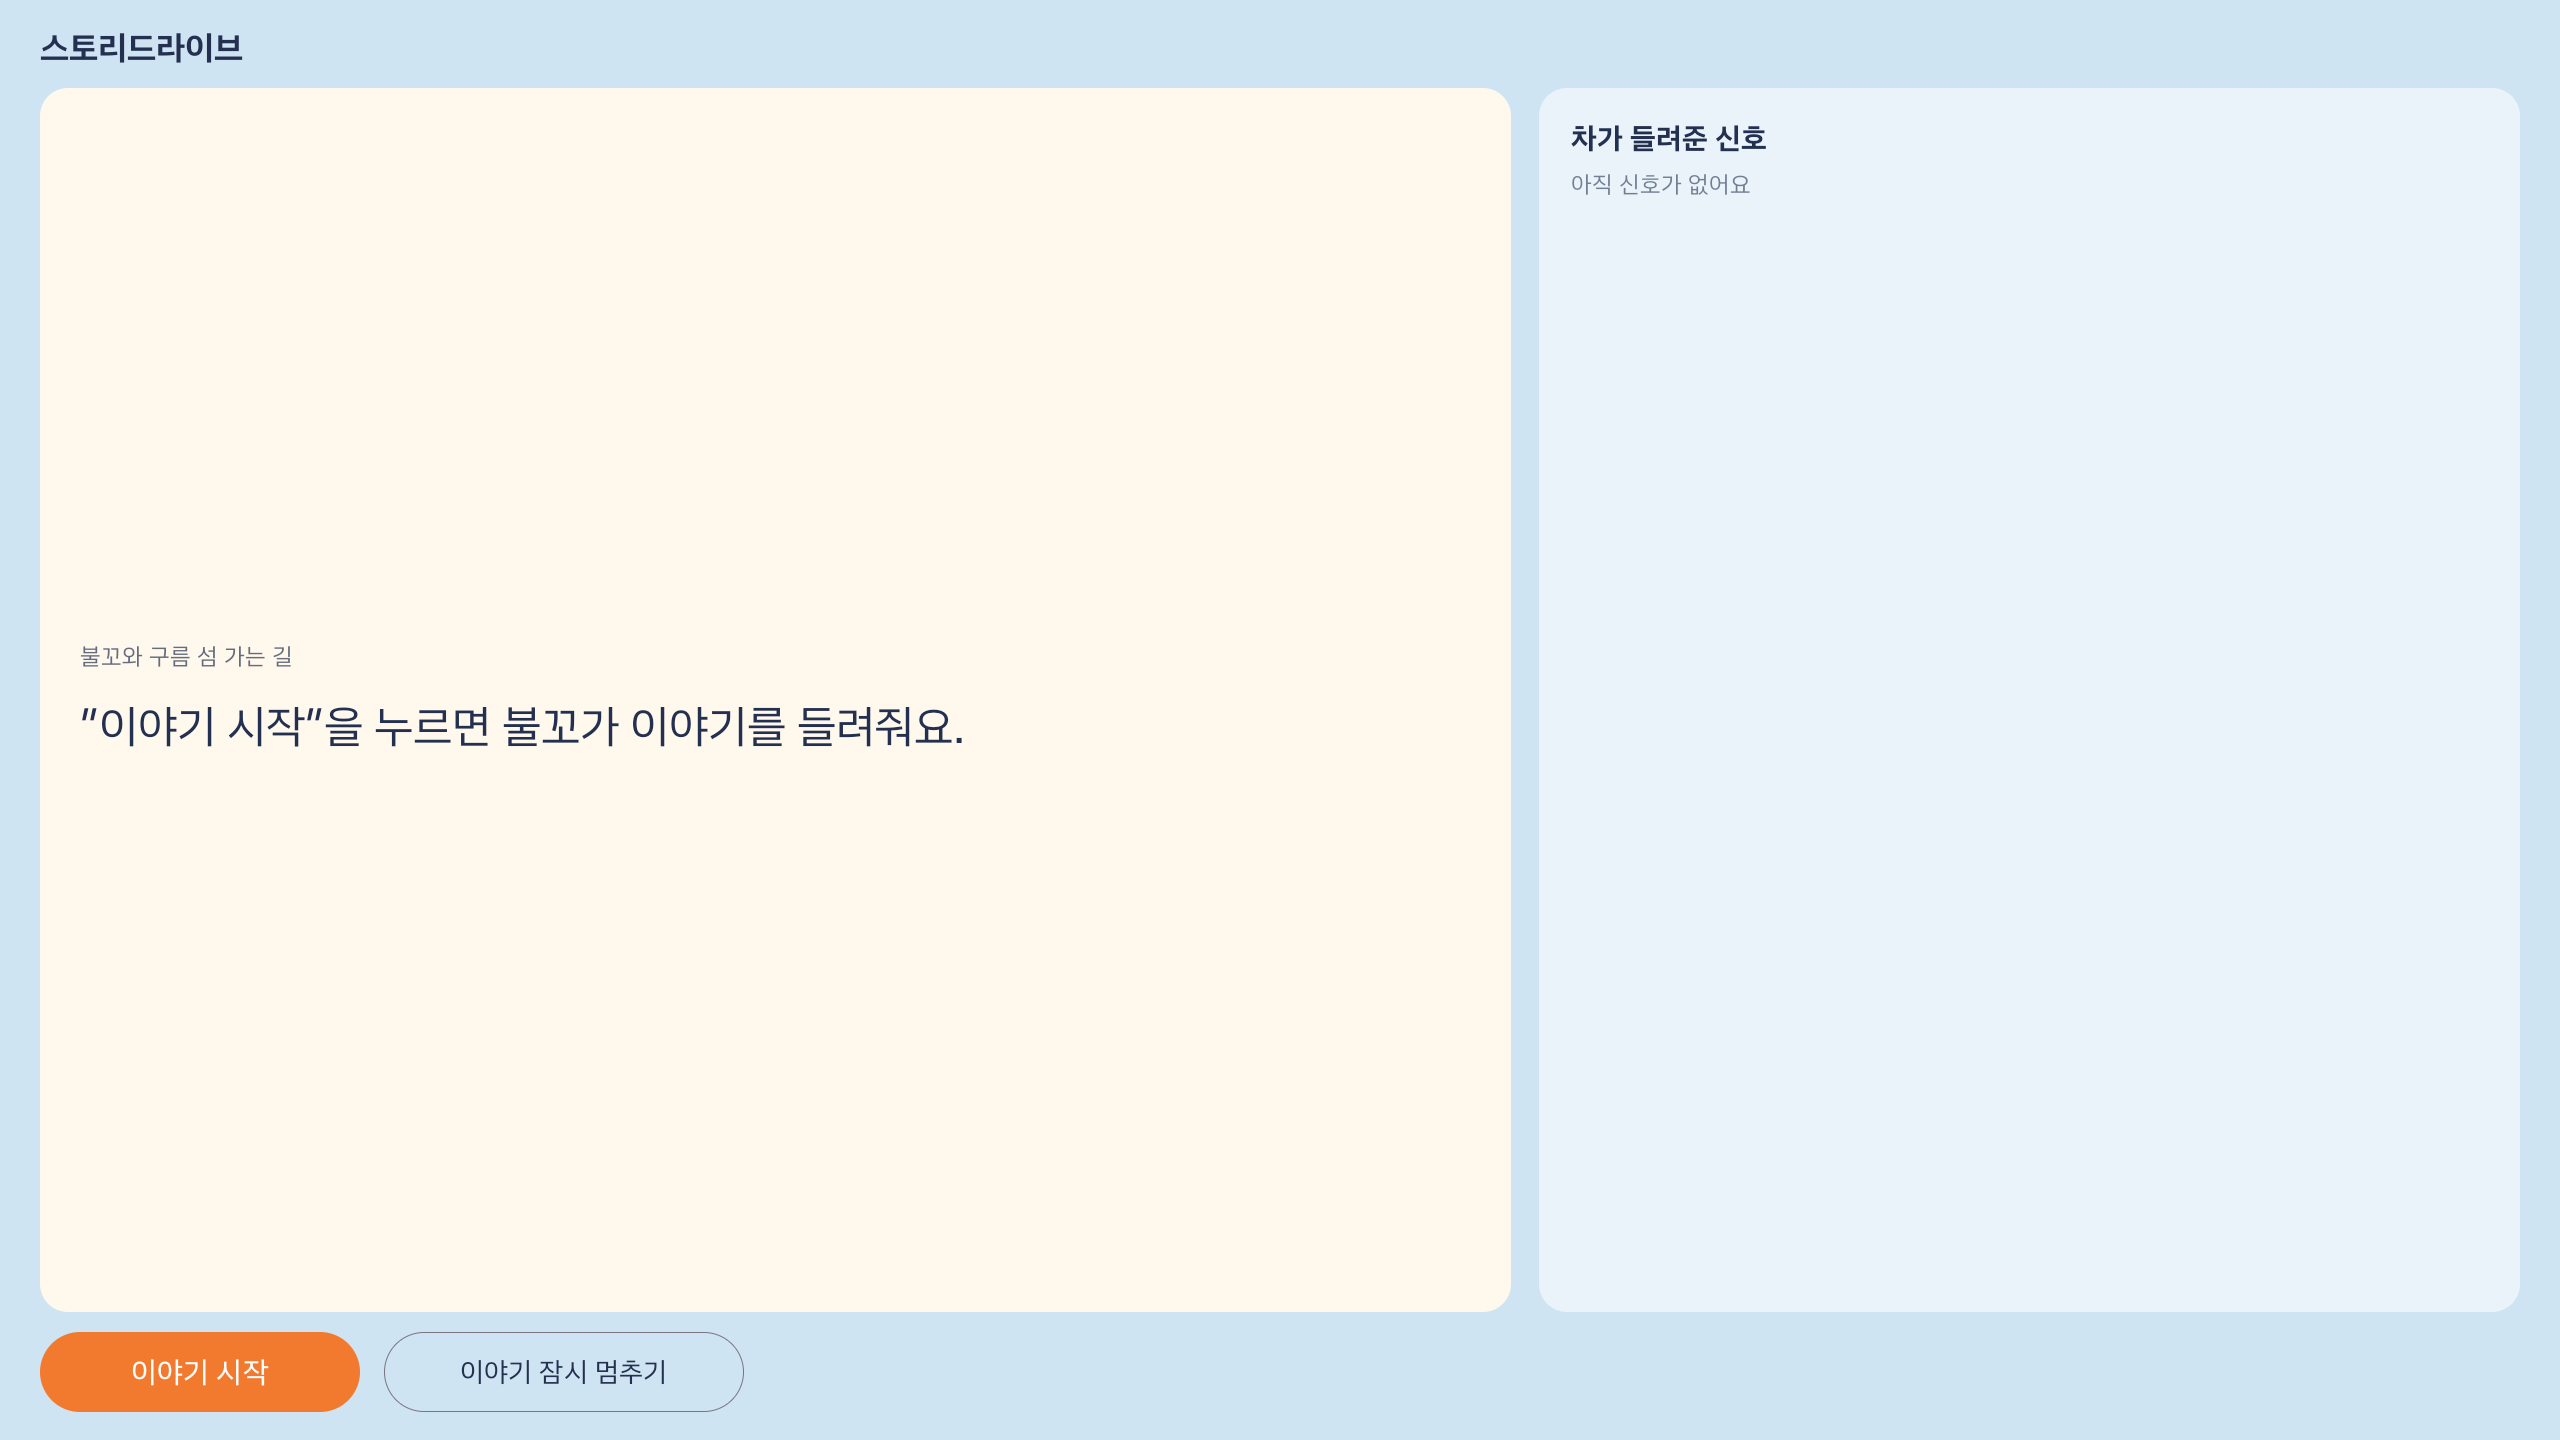
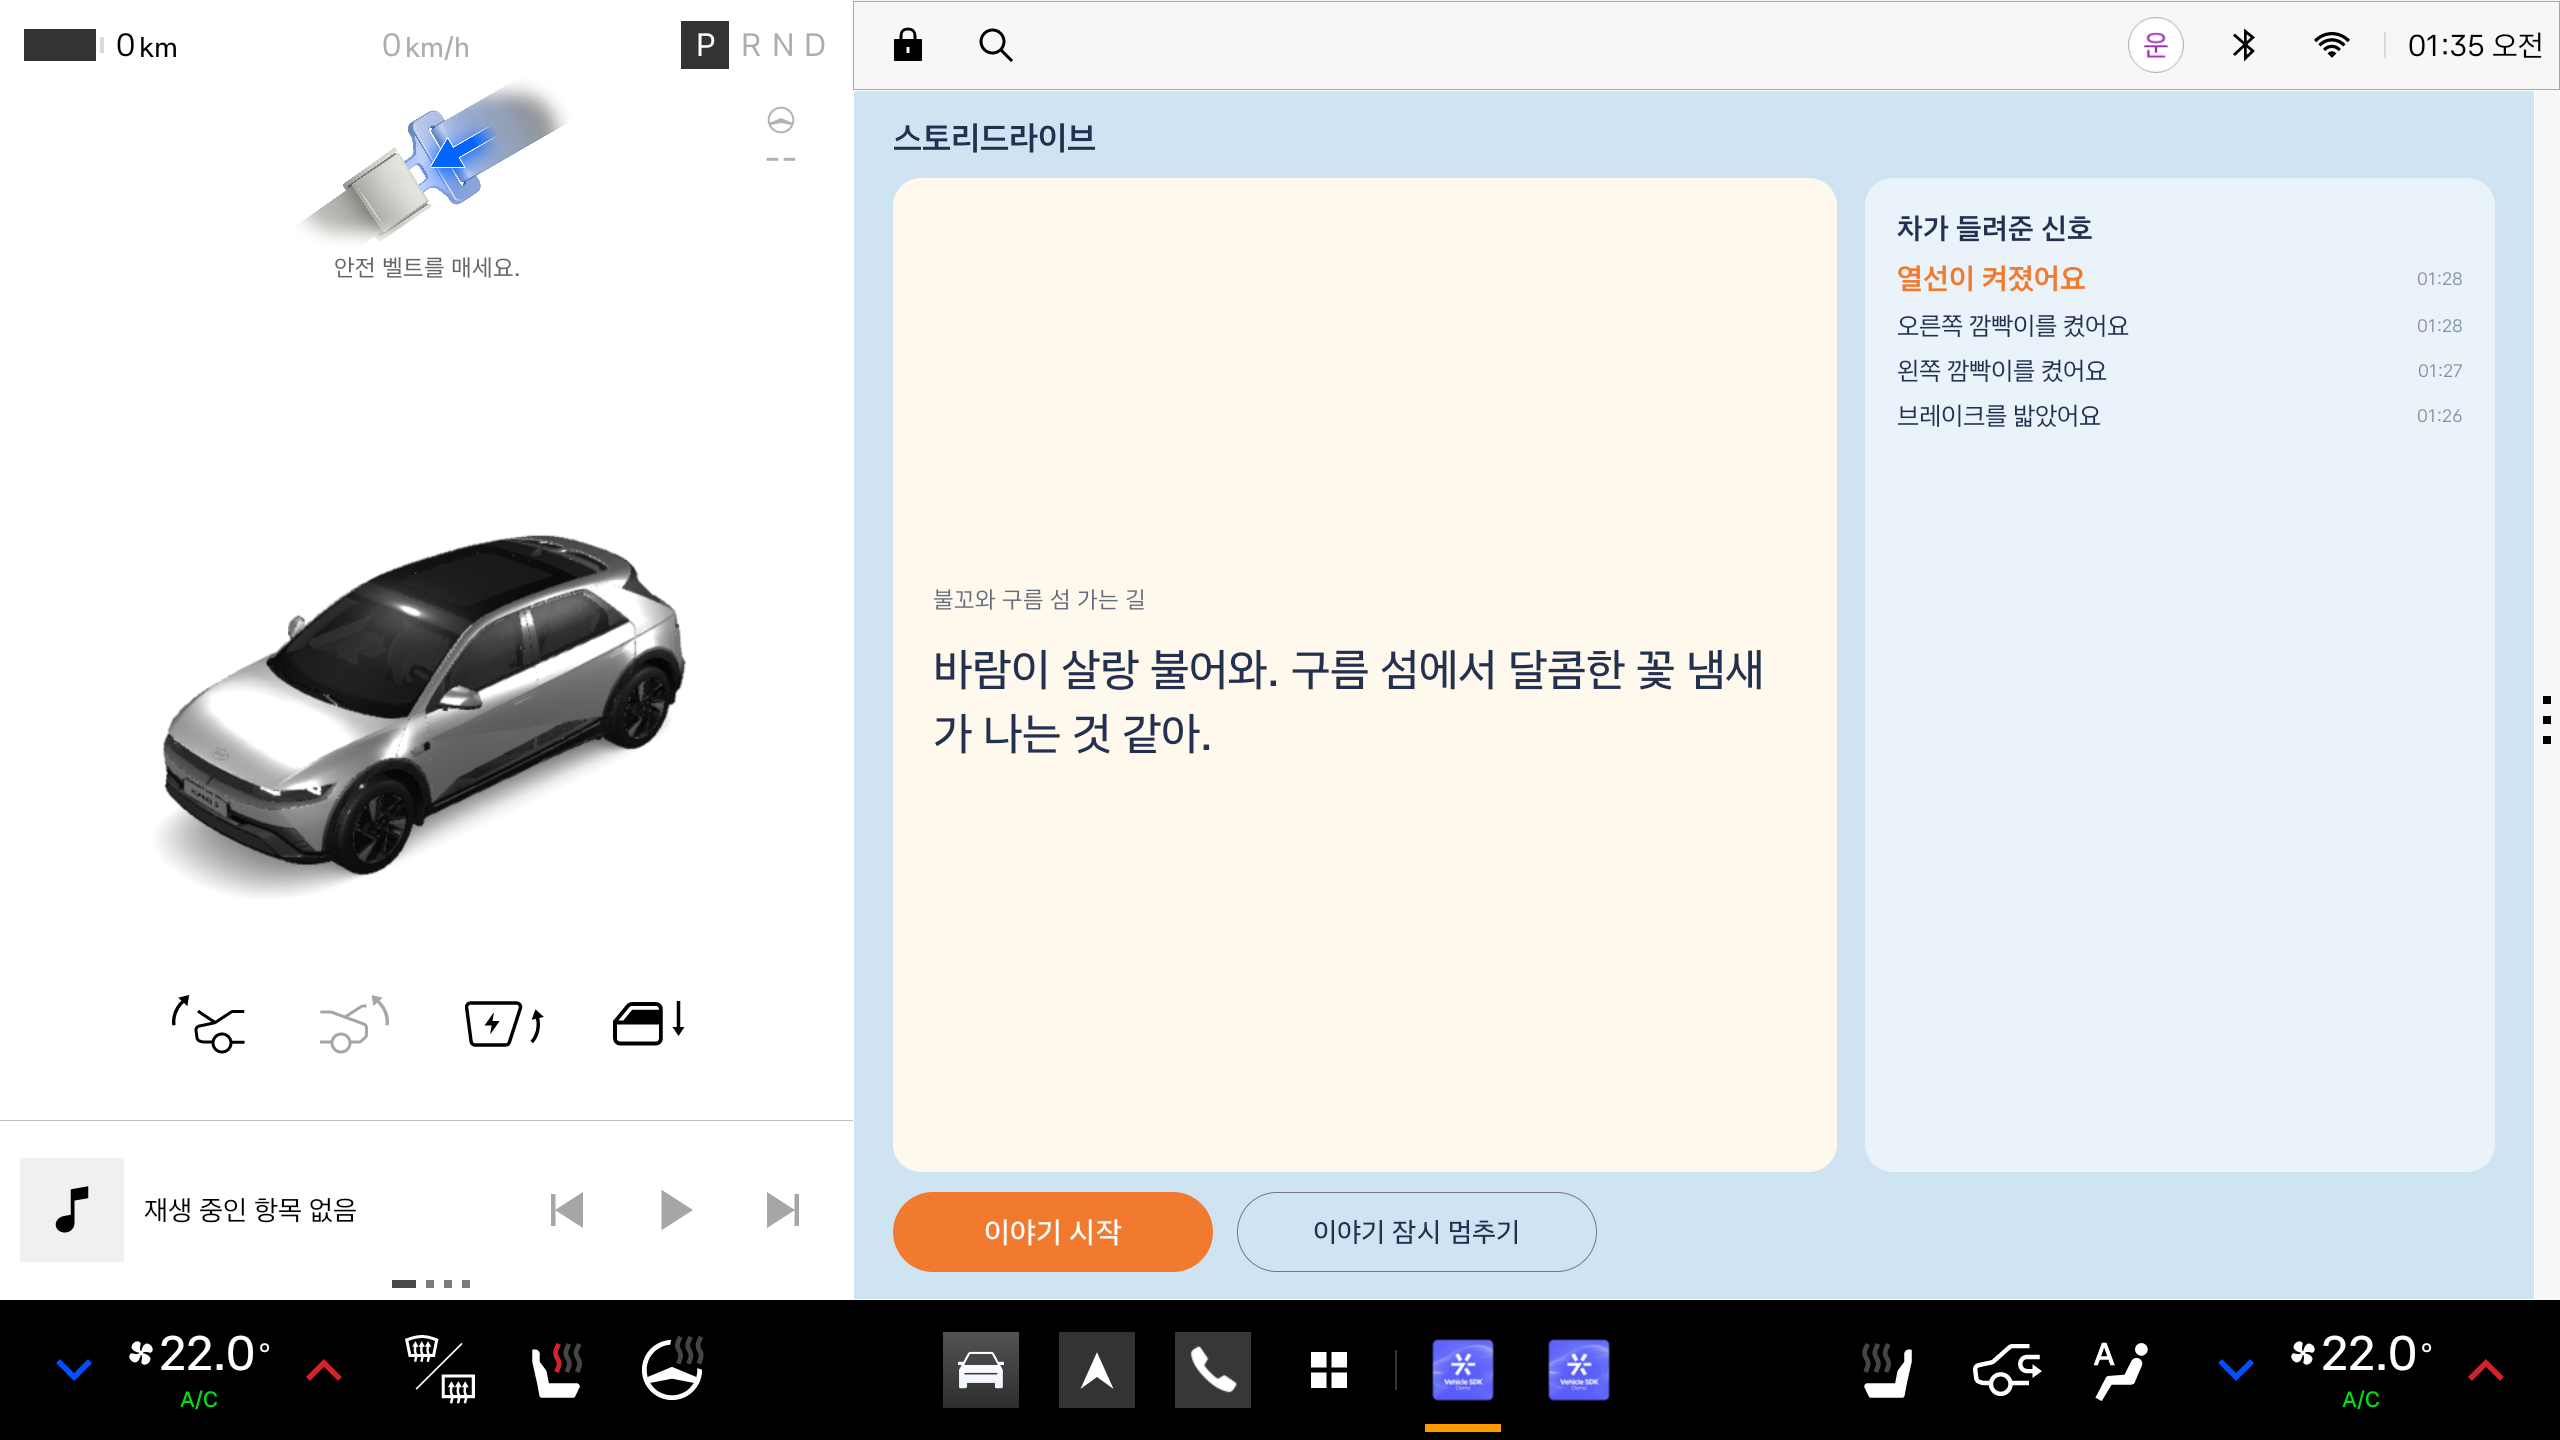
docs: README 진행 상황 M0~M4 완료로 갱신, 스크린샷 교체

diff --git a/README.md b/README.md
@@ -2,7 +2,7 @@
 
 ![스토리드라이브 앱 화면 (Pleos Connect 에뮬레이터)](docs/images/storydrive-main.png)
 
-> 현재 진행 상황: M0~M3 완료(차량 신호 구독, Pleos TTS 음성, 사건 기반 이야기 재생). APK는 [Releases](https://github.com/ZestfulPulse/storydrive/releases)에 추가 예정
+> 현재 진행 상황: M0~M4 완료(차량 신호 구독, Pleos TTS 음성, 사건 기반 이야기 재생, 이야기 화면과 신호 기록). APK는 [Releases](https://github.com/ZestfulPulse/storydrive/releases)에 추가 예정
 
 뒷좌석 아이를 위한 Pleos Connect 차량용 이야기 앱 시제품입니다.
 현대자동차그룹 차량용 앱 개발 공모전 출품작입니다.
